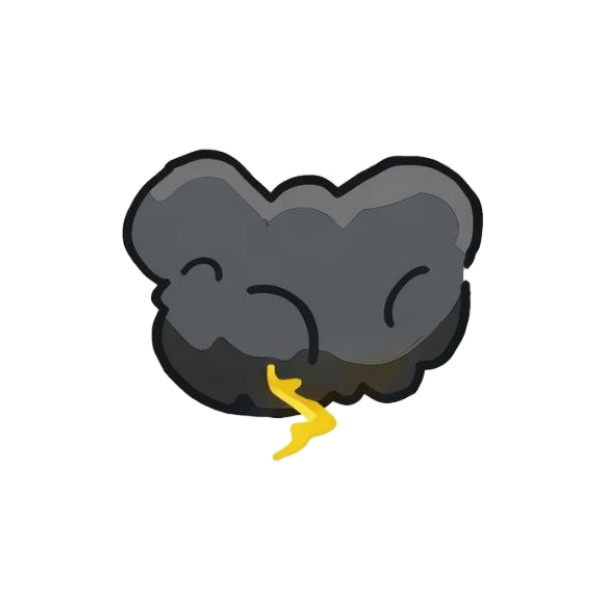
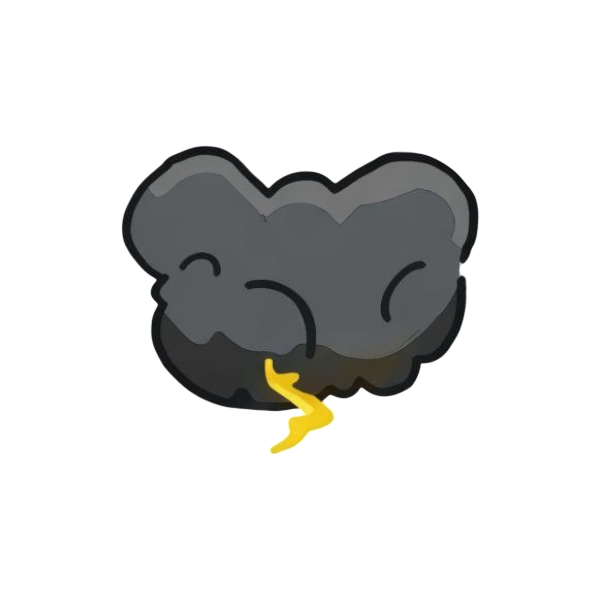
.

diff --git a/pictures2.py b/pictures2.py
@@ -18,13 +18,13 @@ screen = pygame.display.set_mode((SCREEN_WIDTH, SCREEN_HEIGHT))
 
 pygame.display.set_caption("Tile from Tileset")
 
-tileset1 = pygame.image.load("sheep_1.png").convert_alpha()
+tileset1 = pygame.image.load("cloud_3_1.png").convert_alpha()
 
-tileset2 = pygame.image.load("sheep_2-1.png").convert_alpha()
+tileset2 = pygame.image.load("cloud_3_2.png").convert_alpha()
 
-tileset3 = pygame.image.load("sheep_2-2.png").convert_alpha()
+tileset3 = pygame.image.load("cloud_3_3.png").convert_alpha()
 
-tileset4 = pygame.image.load("background.png").convert_alpha()
+
 
 
 
@@ -36,13 +36,15 @@ tile_rect = pygame.Rect(
     tiles_list[0][3]            
 )
 
+
+
 tile_image1 = tileset1.subsurface(tile_rect)
 
 tile_image2 = tileset2.subsurface(tile_rect)
 
 tile_image3 = tileset3.subsurface(tile_rect)
 
-tile_image4 = tileset4.subsurface(tile_rect)
+
 
 clock = pygame.time.Clock()   
 
@@ -56,9 +58,9 @@ while True:
 
 
     screen.blit(tile_image1, (0, 0))
-    screen.blit(tile_image2, (550, 40))
-    screen.blit(tile_image3, (0, 550))
-    screen.blit(tile_image4, (600, 600))
+    screen.blit(tile_image2, (500, 0))
+    screen.blit(tile_image3, (0, 500))
+  
 
     pygame.display.flip()
 
